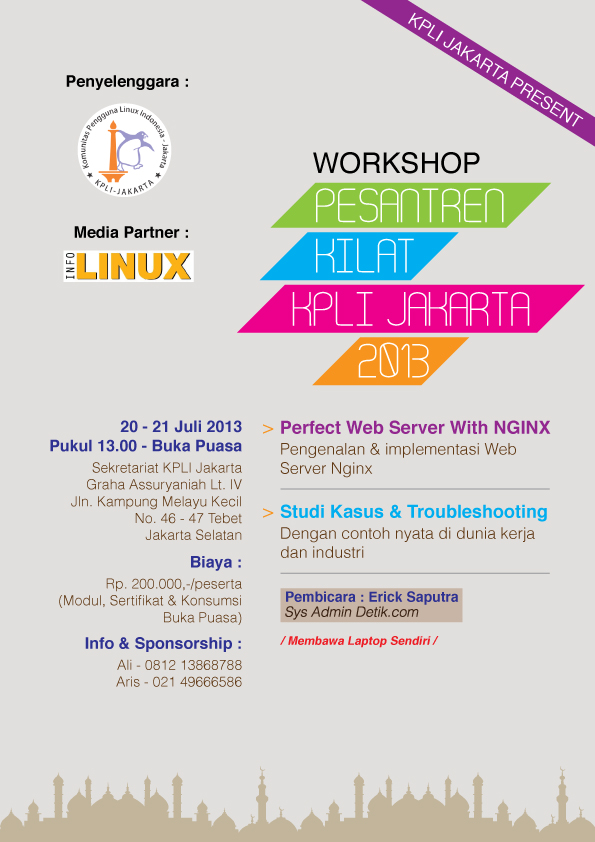
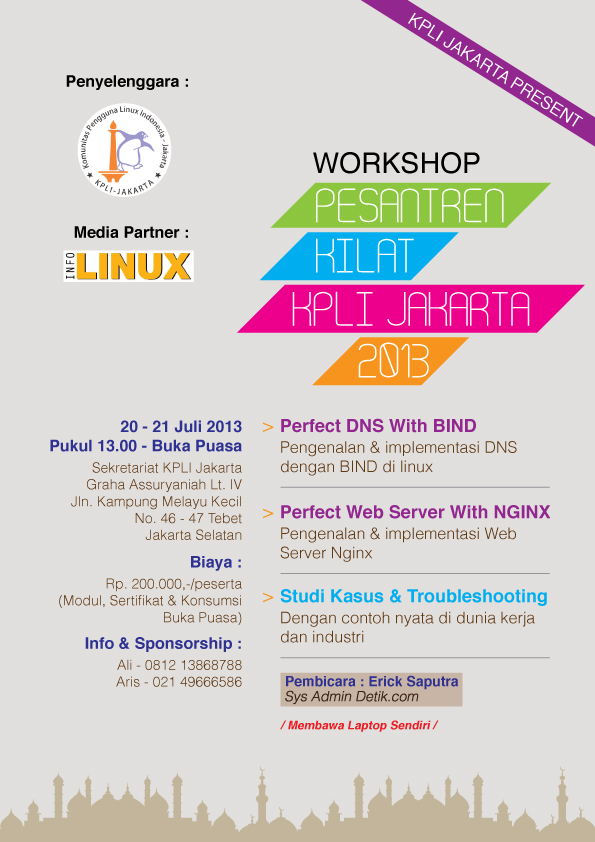
Site updated at 2013-06-27 04:03:56 UTC

Changed region(s): [[0.4235, 0.4941, 0.9378, 0.8646]]

diff --git a/blog/2013/06/24/workshop-linuxjak/index.html b/blog/2013/06/24/workshop-linuxjak/index.html
@@ -9,7 +9,7 @@
   <meta name="author" content="KPLI Jakarta">
 
   
-  <meta name="description" content="Hai semua&#8230; KPLI Jakarta pada kesempatan kali ini akan mengadakan workshop perfect web server with nginx. Dalam workshop ini selain membahas &hellip;">
+  <meta name="description" content="Hai semua&#8230; KPLI Jakarta pada kesempatan kali ini akan mengadakan workshop perfect web server with nginx dan selain itu akan ditambah dengan &hellip;">
   
 
   <!-- http://t.co/dKP3o1e -->
@@ -106,8 +106,8 @@
   </header>
 
 
-<div class="entry-content"><p>Hai semua&#8230; KPLI Jakarta pada kesempatan kali ini akan mengadakan workshop perfect web server with nginx. Dalam workshop ini selain membahas seputar nginx juga akan membahas
-bagaimana implementasi nginx dalam dunia kerja. <!--more--></p>
+<div class="entry-content"><p>Hai semua&#8230; KPLI Jakarta pada kesempatan kali ini akan mengadakan workshop perfect web server with nginx dan selain itu akan ditambah dengan materi menggunakan Bind. Dalam workshop ini selain membahas seputar nginx juga akan membahas
+bagaimana implementasi nginx dalam dunia kerja. Sayang sekali jika kalian tidak ikut, ayo buruan daftar! :)<!--more--></p>
 
 <p><img src="/images/pesantrend.jpg"></p>
 

diff --git a/index.html b/index.html
@@ -9,7 +9,7 @@
   <meta name="author" content="KPLI Jakarta">
 
   
-  <meta name="description" content="Hai semua&#8230; KPLI Jakarta pada kesempatan kali ini akan mengadakan workshop perfect web server with nginx. Dalam workshop ini selain membahas &hellip;">
+  <meta name="description" content="Hai semua&#8230; KPLI Jakarta pada kesempatan kali ini akan mengadakan workshop perfect web server with nginx dan selain itu akan ditambah dengan &hellip;">
   
 
   <!-- http://t.co/dKP3o1e -->
@@ -109,8 +109,8 @@
   </header>
 
 
-  <div class="entry-content"><p>Hai semua&#8230; KPLI Jakarta pada kesempatan kali ini akan mengadakan workshop perfect web server with nginx. Dalam workshop ini selain membahas seputar nginx juga akan membahas
-bagaimana implementasi nginx dalam dunia kerja. </div>
+  <div class="entry-content"><p>Hai semua&#8230; KPLI Jakarta pada kesempatan kali ini akan mengadakan workshop perfect web server with nginx dan selain itu akan ditambah dengan materi menggunakan Bind. Dalam workshop ini selain membahas seputar nginx juga akan membahas
+bagaimana implementasi nginx dalam dunia kerja. Sayang sekali jika kalian tidak ikut, ayo buruan daftar! :)</div>
   
   
     <footer>
